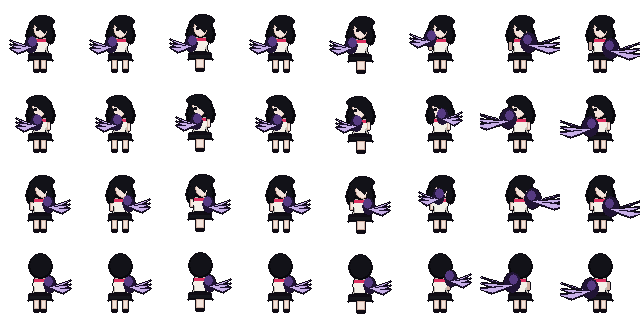
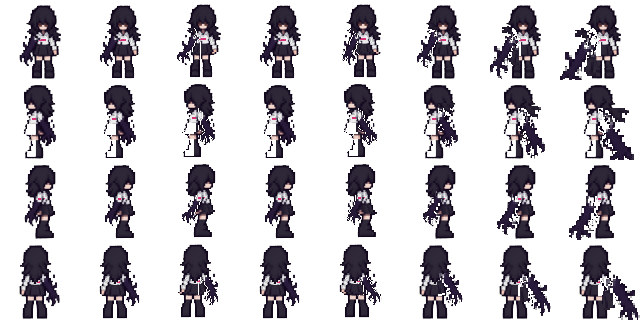
Put Shadow on her authored turnaround and fix the west claw.
Idle frames now come from her own four-view art instead of the old short-hair spray sheet. West keeps the shadow claw on the right arm only. Walk and light-attack frames pose those same pixels, with an exaggerated right-claw slash, and light melee hits burst dark shadow particles on contact.

diff --git a/src/combat/QuickAttack.ts b/src/combat/QuickAttack.ts
@@ -28,7 +28,7 @@ import { BlockController } from './BlockController';
 import { Projectile } from './projectile';
 import { WitchSkullBarrage } from './WitchSkullBarrage';
 import { SHADOW_ATTACK } from '../heroes/abilities/shadow/tunables';
-import { spawnShadowSlash } from '../heroes/abilities/shadow/clawFx';
+import { spawnShadowSlash, spawnShadowHitBurst } from '../heroes/abilities/shadow/clawFx';
 import { emitWorldStrike } from '../match/objectives/worldStrike';
 
 type PendingImpact = {
@@ -539,11 +539,15 @@ export class QuickAttack {
     const len = Math.hypot(attacker.aim.x, attacker.aim.y) || 1;
     const nx = attacker.aim.x / len;
     const ny = attacker.aim.y / len;
-    attacker.playCustomAttack(now, SHADOW_ATTACK.animMs, (frac) => ({
-      armLiftRight: frac < 0.42 ? 0.35 + frac * 2.1 : Math.max(0.2, 1.25 - (frac - 0.42) * 1.7),
-      armLiftLeft: 0.08,
-      swayX: nx * (frac < 0.38 ? -4 : 10) * Math.min(1, frac * 1.7),
-    }));
+    attacker.playCustomAttack(now, SHADOW_ATTACK.animMs, (frac) => {
+      const wind = frac < 0.18;
+      const slash = frac >= 0.36;
+      return {
+        armLiftRight: wind ? 0.2 : slash ? 0.95 : 0.55,
+        armLiftLeft: 0.04,
+        swayX: nx * (wind ? -5 : 12) * Math.min(1, frac * 1.8),
+      };
+    });
     spawnShadowSlash(this.scene, attacker.x, attacker.y, nx, ny, attacker.stats.attackRange);
   }
 
@@ -566,6 +570,7 @@ export class QuickAttack {
       if (result === 'hit') {
         connected = true;
         defender.applyClawMark(now);
+        spawnShadowHitBurst(this.scene, defender.x, defender.y - 8);
       }
       if (result === 'blocked' || result === 'perfect-block' || result === 'clash') {
         this.combo.reset();

diff --git a/src/heroes/abilities/shadow/clawFx.ts b/src/heroes/abilities/shadow/clawFx.ts
@@ -1,5 +1,50 @@
 import Phaser from 'phaser';
 
+export const spawnShadowHitBurst = (
+  scene: Phaser.Scene,
+  x: number,
+  y: number,
+): void => {
+  const count = 14;
+  for (let i = 0; i < count; i += 1) {
+    const ang = (Math.PI * 2 * i) / count + Math.random() * 0.35;
+    const dist = 18 + Math.random() * 28;
+    const puff = scene.add.ellipse(
+      x,
+      y,
+      7 + (i % 3) * 3,
+      9 + (i % 4) * 2,
+      i % 2 === 0 ? 0x140816 : 0x2a1440,
+    );
+    puff.setAlpha(0.92).setDepth(21);
+    scene.tweens.add({
+      targets: puff,
+      x: x + Math.cos(ang) * dist,
+      y: y + Math.sin(ang) * dist - 8,
+      alpha: 0,
+      scaleX: 1.8,
+      scaleY: 1.8,
+      duration: 220 + i * 12,
+      ease: 'Cubic.Out',
+      onComplete: () => puff.destroy(),
+    });
+  }
+  for (let i = 0; i < 8; i += 1) {
+    const speck = scene.add.rectangle(x, y, 3, 3, i % 2 === 0 ? 0x0a0610 : 0x4a2870).setDepth(22);
+    const ang = Math.random() * Math.PI * 2;
+    const dist = 10 + Math.random() * 22;
+    scene.tweens.add({
+      targets: speck,
+      x: x + Math.cos(ang) * dist,
+      y: y + Math.sin(ang) * dist,
+      alpha: 0,
+      duration: 160 + i * 18,
+      ease: 'Quad.Out',
+      onComplete: () => speck.destroy(),
+    });
+  }
+};
+
 export const spawnShadowSlash = (
   scene: Phaser.Scene,
   x: number,

diff --git a/scripts/build-shadow-sheet.py b/scripts/build-shadow-sheet.py
@@ -1,0 +1,262 @@
+#!/usr/bin/env python3
+"""Pack Shadow's authored turnaround into the 8x4 game sheet and animate it.
+
+Idle pixels come from scripts/shadow-src/turnaround.jpg (the art she made).
+Walk/attack frames are posed from those same pixels. West keeps the claw on
+the right arm only — never on the front/left hand.
+"""
+
+from __future__ import annotations
+
+from pathlib import Path
+
+from PIL import Image
+
+FRAME = 80
+COLS = 8
+ROWS = 4
+SRC = Path("scripts/shadow-src/turnaround.jpg")
+OUT = Path("assets/heroes/shadow.png")
+
+# Magenta collar stamp so existing team bake (isSash) still works.
+SASH = (214, 52, 118, 255)
+
+CROPS = {
+    "west": (70, 170, 360, 750),
+    "south": (450, 170, 820, 750),
+    "north": (930, 170, 1280, 750),
+    "east": (1410, 170, 1710, 750),
+}
+
+# Resting claw is always the character's right arm.
+CLAW_SIDE = {"south": "left", "west": "right", "east": "left", "north": "right"}
+
+
+def knockout_white(im: Image.Image) -> Image.Image:
+    im = im.convert("RGBA")
+    px = im.load()
+    w, h = im.size
+    for y in range(h):
+        for x in range(w):
+            r, g, b, a = px[x, y]
+            if r > 242 and g > 242 and b > 242:
+                px[x, y] = (0, 0, 0, 0)
+    return im
+
+
+def tight(im: Image.Image) -> Image.Image:
+    bb = im.getbbox()
+    if not bb:
+        return im
+    return im.crop(bb)
+
+
+def is_claw_color(r: int, g: int, b: int, a: int) -> bool:
+    if a < 180:
+        return False
+    mx = max(r, g, b)
+    if mx < 36:
+        return False
+    if r > 150 and g > 130:
+        return False
+    if r > 140 and g > 90 and r > b + 16:
+        return False
+    return b >= r - 10 and g <= b + 8 and mx <= 150
+
+
+def extract_idle(name: str, src: Image.Image) -> Image.Image:
+    im = tight(knockout_white(src.crop(CROPS[name])))
+    if name == "west":
+        im = strip_west_left_claw(im)
+    return im
+
+
+def strip_west_left_claw(im: Image.Image) -> Image.Image:
+    """West faces left. Claw lives on the right; left/front hand stays human."""
+    im = im.copy()
+    px = im.load()
+    w, h = im.size
+    cut = int(w * 0.38)
+    hair_y = int(h * 0.40)
+    for y in range(hair_y, h):
+        for x in range(0, cut):
+            r, g, b, a = px[x, y]
+            if is_claw_color(r, g, b, a):
+                px[x, y] = (0, 0, 0, 0)
+    return im
+
+
+def fit_frame(src: Image.Image, max_h: int = 74, max_w: int = 78) -> Image.Image:
+    src = tight(src)
+    w, h = src.size
+    scale = min(max_w / w, max_h / h)
+    tw = max(1, round(w * scale))
+    th = max(1, round(h * scale))
+    small = src.resize((tw, th), Image.Resampling.BOX)
+    canvas = Image.new("RGBA", (FRAME, FRAME), (0, 0, 0, 0))
+    x = (FRAME - tw) // 2
+    y = FRAME - th - 1
+    canvas.paste(small, (x, y), small)
+    return canvas
+
+
+def shift(im: Image.Image, dx: int, dy: int) -> Image.Image:
+    out = Image.new("RGBA", im.size, (0, 0, 0, 0))
+    out.paste(im, (dx, dy), im)
+    return out
+
+
+def shift_region(im: Image.Image, y0: int, y1: int, dx: int, dy: int = 0) -> Image.Image:
+    out = im.copy()
+    band = im.crop((0, y0, FRAME, y1))
+    clear = Image.new("RGBA", (FRAME, y1 - y0), (0, 0, 0, 0))
+    out.paste(clear, (0, y0))
+    out.paste(band, (dx, y0 + dy), band)
+    return out
+
+
+def claw_mask(im: Image.Image, side: str) -> Image.Image:
+    px = im.load()
+    mask = Image.new("L", im.size, 0)
+    mp = mask.load()
+    w, h = im.size
+    x0, x1 = (0, int(w * 0.52)) if side == "left" else (int(w * 0.48), w)
+    y0 = int(h * 0.36)
+    for y in range(y0, h):
+        for x in range(x0, x1):
+            r, g, b, a = px[x, y]
+            if is_claw_color(r, g, b, a):
+                mp[x, y] = 255
+    # Keep only the largest blob so hair specks stay put.
+    return largest_blob(mask)
+
+
+def largest_blob(mask: Image.Image) -> Image.Image:
+    w, h = mask.size
+    px = mask.load()
+    seen = [[False] * w for _ in range(h)]
+    best: list[tuple[int, int]] = []
+    for y in range(h):
+        for x in range(w):
+            if px[x, y] < 128 or seen[y][x]:
+                continue
+            stack = [(x, y)]
+            seen[y][x] = True
+            blob = [(x, y)]
+            while stack:
+                cx, cy = stack.pop()
+                for nx, ny in ((cx - 1, cy), (cx + 1, cy), (cx, cy - 1), (cx, cy + 1)):
+                    if 0 <= nx < w and 0 <= ny < h and not seen[ny][nx] and px[nx, ny] >= 128:
+                        seen[ny][nx] = True
+                        stack.append((nx, ny))
+                        blob.append((nx, ny))
+            if len(blob) > len(best):
+                best = blob
+    out = Image.new("L", mask.size, 0)
+    op = out.load()
+    for x, y in best:
+        op[x, y] = 255
+    return out
+
+
+def pose_claw(idle: Image.Image, side: str, scale: float, dx: int, dy: int) -> Image.Image:
+    mask = claw_mask(idle, side)
+    claw = Image.new("RGBA", idle.size, (0, 0, 0, 0))
+    claw.paste(idle, (0, 0), mask)
+    body = idle.copy()
+    body.paste(Image.new("RGBA", idle.size, (0, 0, 0, 0)), (0, 0), mask)
+    bb = claw.getbbox()
+    if not bb:
+        return idle
+    piece = claw.crop(bb)
+    nw = max(2, round(piece.size[0] * scale))
+    nh = max(2, round(piece.size[1] * scale))
+    grown = piece.resize((nw, nh), Image.Resampling.BOX)
+    if side == "left":
+        x = bb[2] - nw + dx
+    else:
+        x = bb[0] + dx
+    y = bb[1] + dy
+    out = body.copy()
+    out.paste(grown, (x, y), grown)
+    return out
+
+
+def stamp_sash(im: Image.Image) -> Image.Image:
+    """Tiny magenta collar so team sheets still recolor without touching the claw."""
+    im = im.copy()
+    px = im.load()
+    # Find a white-ish blouse pixel near the chest and stamp a 2-row band.
+    w, h = im.size
+    hits = []
+    for y in range(int(h * 0.40), int(h * 0.56)):
+        for x in range(int(w * 0.38), int(w * 0.62)):
+            r, g, b, a = px[x, y]
+            if a > 200 and r > 200 and g > 196 and b > 190 and abs(r - g) < 28:
+                hits.append((x, y))
+    if not hits:
+        return im
+    xs = [p[0] for p in hits]
+    ys = [p[1] for p in hits]
+    ys.sort()
+    cx, cy = sum(xs) // len(xs), ys[len(ys) // 2]
+    for x in range(cx - 3, cx + 4):
+        for y in range(cy, cy + 2):
+            if 0 <= x < w and 0 <= y < h and px[x, y][3] > 160:
+                r, g, b, a = px[x, y]
+                if r > 170 and g > 160:
+                    px[x, y] = SASH
+    return im
+
+
+def walk_frames(idle: Image.Image, facing: str) -> list[Image.Image]:
+    side = CLAW_SIDE[facing]
+    y0, y1 = 52, 80
+    frames = []
+    steps = [
+        (0, 0, 0, 0),
+        (0, 1, -2, 1),
+        (0, 0, 0, 0),
+        (0, 1, 2, -1),
+    ]
+    for dx, bob, leg, claw in steps:
+        fr = shift(idle, dx, -bob)
+        fr = shift_region(fr, y0, y1, leg, 0)
+        if claw:
+            out_dx = -claw if side == "left" else claw
+            fr = pose_claw(fr, side, 1.0, out_dx, 0)
+        frames.append(fr)
+    return frames
+
+
+def attack_frames(idle: Image.Image, facing: str) -> list[Image.Image]:
+    side = CLAW_SIDE[facing]
+    # Windup: claw pulled back/up. Slash: same right claw, much bigger.
+    if side == "left":
+        wind = pose_claw(idle, side, 1.18, 1, -5)
+        mid = pose_claw(idle, side, 1.4, -2, -2)
+        slash = pose_claw(idle, side, 1.7, -5, 0)
+    else:
+        wind = pose_claw(idle, side, 1.18, -1, -5)
+        mid = pose_claw(idle, side, 1.4, 2, -2)
+        slash = pose_claw(idle, side, 1.7, 5, 0)
+    return [wind, mid, slash]
+
+
+def main() -> None:
+    src = Image.open(SRC).convert("RGBA")
+    sheet = Image.new("RGBA", (FRAME * COLS, FRAME * ROWS), (0, 0, 0, 0))
+    for row, facing in enumerate(("south", "west", "east", "north")):
+        idle_hi = extract_idle(facing, src)
+        idle = stamp_sash(fit_frame(idle_hi))
+        walks = walk_frames(idle, facing)
+        attacks = attack_frames(idle, facing)
+        frames = [idle, *walks, *attacks]
+        for col, fr in enumerate(frames):
+            sheet.paste(fr, (col * FRAME, row * FRAME), fr)
+    sheet.save(OUT)
+    print("wrote", OUT, sheet.size)
+
+
+if __name__ == "__main__":
+    main()
